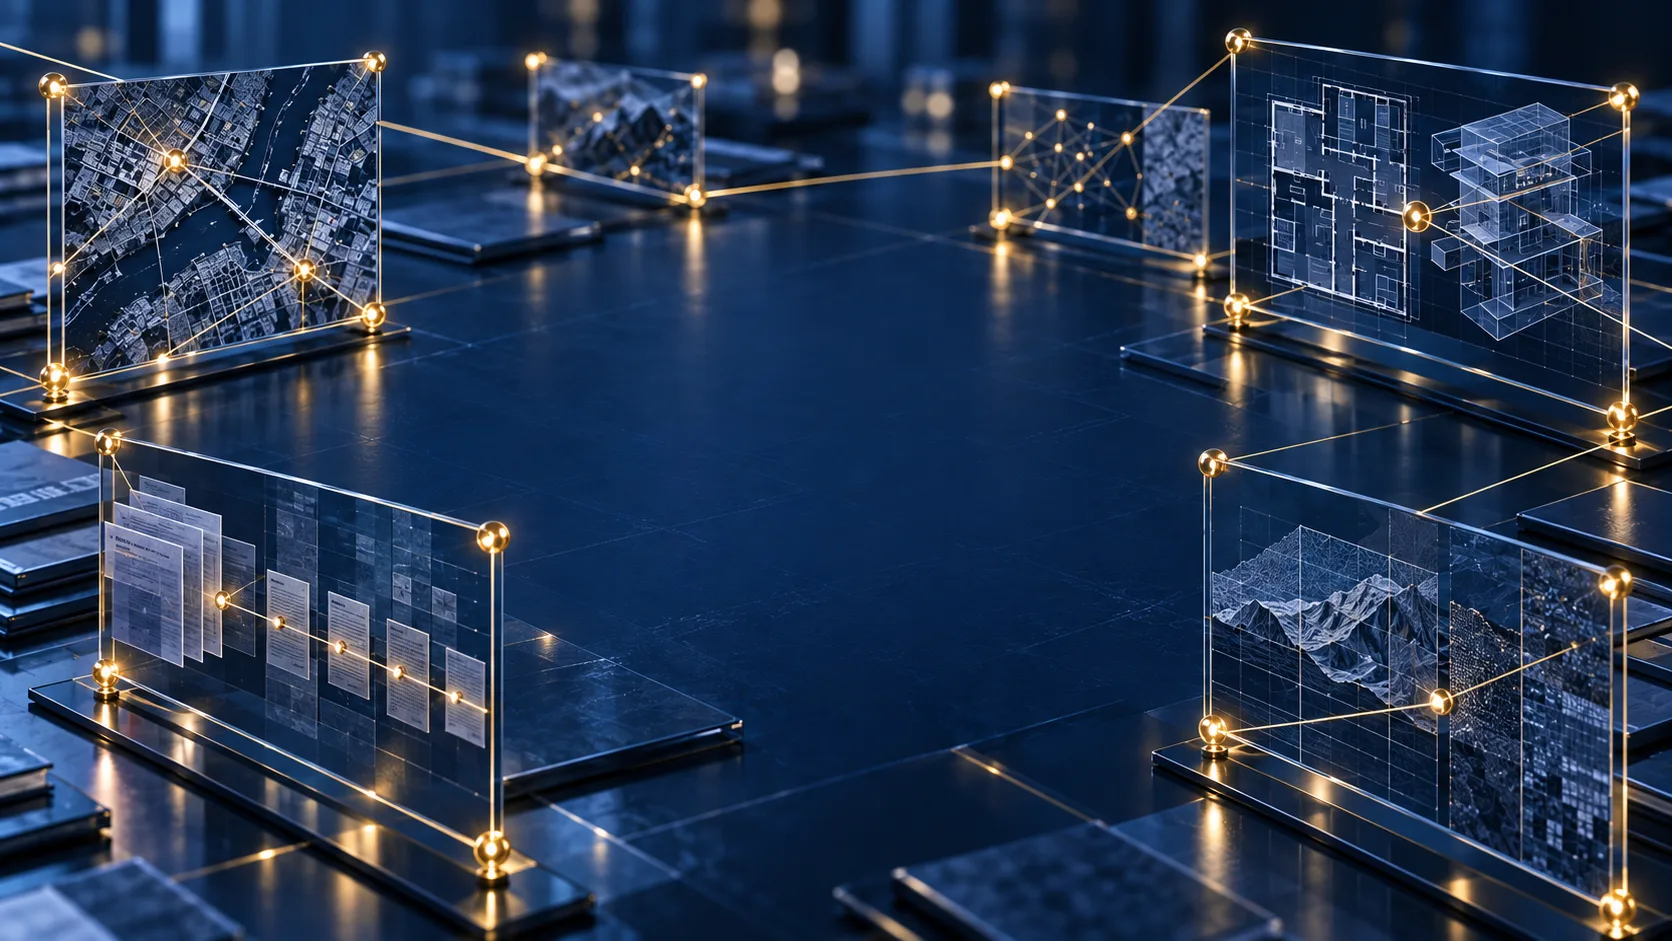
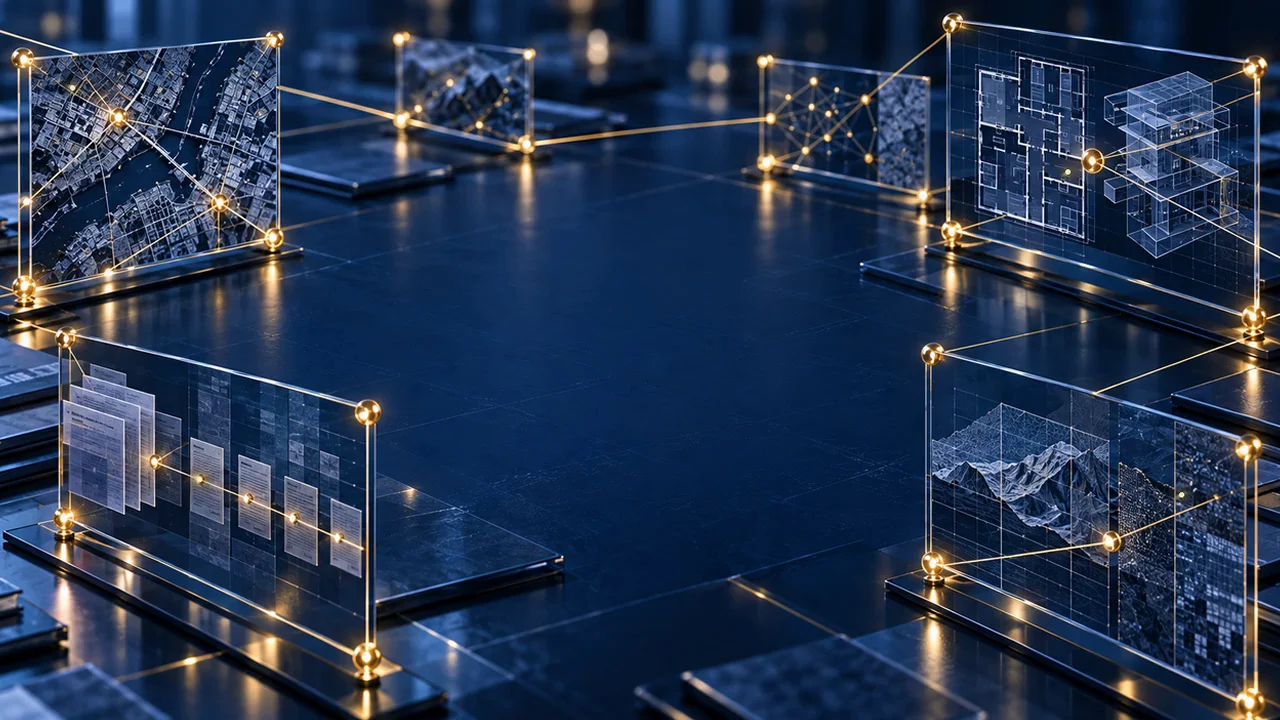
fix(heroes): remove the zoom jolt when the hero video starts
The service-page posters were separately supplied stills framed ~2% wider than
the videos' opening frame (SSIM peaks at a 1.02x crop), and the hero unmounted
the poster <img> and mounted the <video> in its place. The result was a hard
cut between two differently framed images, which read as a jolt/zoom.

Posters are now cut from each video's first frame (SSIM vs frame 0:
0.42 -> 0.987 Loss Intelligence, 0.55 -> 0.989 Investigations). The poster
stays mounted underneath and the video only fades in once it fires 'playing',
so there is no element swap or blank frame. The poster also fades in on load
instead of popping over the flat blue. The homepage gets the same
persistent-poster treatment; its poster already matched its video.

Also fixes a hidden-tab bug in both hooks: tabHidden started as false rather
than document.hidden, so a page opened in a background tab called play()
while hidden, got aborted, and never retried on becoming visible. play()
rejections from our own pause() (AbortError) no longer flip the control to
Play; only a genuine refusal does.

diff --git a/src/pages/Home.jsx b/src/pages/Home.jsx
@@ -21,9 +21,12 @@ function useHeroBackgroundVideo(sectionRef) {
       window.matchMedia('(max-width: 767px)').matches
   );
   const [onScreen, setOnScreen] = useState(true);
-  const [tabHidden, setTabHidden] = useState(false);
+  // Read real visibility: a page opened in a background tab must wait for the
+  // hidden→visible change, or play() is aborted and nothing ever retries it.
+  const [tabHidden, setTabHidden] = useState(() => document.hidden);
   const [hasSource, setHasSource] = useState(false);
   const [mediaError, setMediaError] = useState(false);
+  const [videoVisible, setVideoVisible] = useState(false);
 
   useEffect(() => {
     const reduceQuery = window.matchMedia('(prefers-reduced-motion: reduce)');
@@ -64,7 +67,11 @@ function useHeroBackgroundVideo(sectionRef) {
     const video = videoRef.current;
     if (!video) return;
     if (shouldPlay) {
-      video.play().catch(() => setUserPaused(true)); // autoplay blocked — reflect the real state
+      // AbortError just means a pause() (off-screen / hidden tab) interrupted
+      // this play(); only a real refusal (autoplay blocked) flips to Play.
+      video.play().catch((err) => {
+        if (err.name !== 'AbortError') setUserPaused(true);
+      });
     } else {
       video.pause();
     }
@@ -72,7 +79,10 @@ function useHeroBackgroundVideo(sectionRef) {
 
   const togglePlayback = () => setUserPaused((p) => !p);
 
-  return { videoRef, userPaused, togglePlayback, hasSource, mediaError, setMediaError };
+  return {
+    videoRef, userPaused, togglePlayback, hasSource, mediaError, setMediaError,
+    videoVisible, onVideoPlaying: () => setVideoVisible(true),
+  };
 }
 
 const APPLIED_WORK = [
@@ -133,7 +143,7 @@ const Home = () => {
   const [heroPassed, setHeroPassed] = useState(false);
   const [awPage, setAwPage] = useState(0);
   const [awVisible, setAwVisible] = useState(true);
-  const { videoRef, userPaused, togglePlayback, hasSource, mediaError, setMediaError } = useHeroBackgroundVideo(heroRef);
+  const { videoRef, userPaused, togglePlayback, hasSource, mediaError, setMediaError, videoVisible, onVideoPlaying } = useHeroBackgroundVideo(heroRef);
 
   useEffect(() => {
     let ctx = gsap.context(() => {
@@ -195,25 +205,26 @@ const Home = () => {
           {/* hero-mp4.mp4 — Perth → Sydney → Melbourne → Perth boardroom loop.
               Colour grade (blue-lean, tamed sunset/highlights) is baked into the
               source file; no runtime brightness/saturate filter stacked on top. */}
-          {hasSource && !mediaError ? (
+          {/* Poster stays mounted underneath; the video is revealed only once it
+              is actually rendering, so there's no element swap or blank frame. */}
+          <img
+            src="/hero-poster.webp"
+            alt=""
+            className="absolute inset-0 w-full h-full object-cover"
+            style={{ transform: 'scale(1.03)' }}
+          />
+          {hasSource && !mediaError && (
             <video
               ref={videoRef}
-              className="absolute inset-0 w-full h-full object-cover"
+              className={`absolute inset-0 w-full h-full object-cover transition-opacity duration-500 motion-reduce:transition-none ${videoVisible ? 'opacity-100' : 'opacity-0'}`}
               src="/hero-mp4.mp4"
-              poster="/hero-poster.webp"
               preload="metadata"
               muted
               loop
               playsInline
               tabIndex={-1}
+              onPlaying={onVideoPlaying}
               onError={() => setMediaError(true)}
-              style={{ transform: 'scale(1.03)' }}
-            />
-          ) : (
-            <img
-              src="/hero-poster.webp"
-              alt=""
-              className="absolute inset-0 w-full h-full object-cover"
               style={{ transform: 'scale(1.03)' }}
             />
           )}

diff --git a/src/components/CinematicHero.jsx b/src/components/CinematicHero.jsx
@@ -27,8 +27,19 @@ const CinematicHero = ({
       window.matchMedia('(max-width: 767px)').matches
   );
   const [onScreen, setOnScreen] = useState(true);
-  const [tabHidden, setTabHidden] = useState(false);
+  // Read real visibility: a page opened in a background tab must wait for the
+  // hidden→visible change, or play() is aborted and nothing ever retries it.
+  const [tabHidden, setTabHidden] = useState(() => document.hidden);
   const [hasSource, setHasSource] = useState(false);
+  const posterRef = useRef(null);
+  const [posterLoaded, setPosterLoaded] = useState(false);
+  const [videoVisible, setVideoVisible] = useState(false);
+
+  // A cached poster can finish loading before React attaches onLoad.
+  useEffect(() => {
+    const img = posterRef.current;
+    if (img?.complete && img.naturalWidth) setPosterLoaded(true);
+  }, []);
 
   useEffect(() => {
     const reduceQuery = window.matchMedia('(prefers-reduced-motion: reduce)');
@@ -72,7 +83,11 @@ const CinematicHero = ({
     const video = videoRef.current;
     if (!video) return;
     if (shouldPlay) {
-      video.play().catch(() => {});
+      // AbortError just means a pause() (off-screen / hidden tab) interrupted
+      // this play(); only a real refusal (autoplay blocked) flips to Play.
+      video.play().catch((err) => {
+        if (err.name !== 'AbortError') setUserPaused(true);
+      });
     } else {
       video.pause();
     }
@@ -82,26 +97,29 @@ const CinematicHero = ({
 
   return (
     <section ref={sectionRef} className="group/hero relative isolate min-h-[660px] flex items-center justify-center overflow-hidden px-6 py-28 md:py-32">
+      {/* The poster is the video's own first frame and stays mounted underneath;
+          the video is only revealed once it is actually rendering, so the
+          handover is seamless rather than an element swap. */}
       <div className="absolute inset-0 -z-20 bg-[#1A3560]">
+        <img
+          ref={posterRef}
+          src={posterSrc}
+          alt=""
+          aria-hidden="true"
+          onLoad={() => setPosterLoaded(true)}
+          className={`absolute inset-0 w-full h-full object-cover object-center transition-opacity duration-500 motion-reduce:transition-none ${posterLoaded ? 'opacity-100' : 'opacity-0'}`}
+        />
         {hasSource && (
           <video
             ref={videoRef}
-            className="absolute inset-0 w-full h-full object-cover object-center"
+            className={`absolute inset-0 w-full h-full object-cover object-center transition-opacity duration-500 motion-reduce:transition-none ${videoVisible ? 'opacity-100' : 'opacity-0'}`}
             src={videoSrc}
-            poster={posterSrc}
             muted
             loop
             playsInline
             preload="metadata"
             aria-hidden="true"
-          />
-        )}
-        {!hasSource && (
-          <img
-            src={posterSrc}
-            alt=""
-            aria-hidden="true"
-            className="absolute inset-0 w-full h-full object-cover object-center"
+            onPlaying={() => setVideoVisible(true)}
           />
         )}
       </div>
